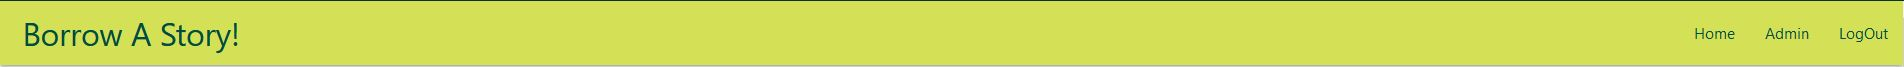
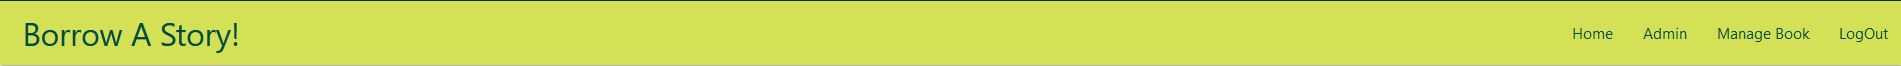
Add passage for mange book page and edit page in Readme file

diff --git a/templates/editbook.html b/templates/editbook.html
@@ -28,4 +28,6 @@
 </div>
 </div>
 
+{% endif %}
+
 {% endblock %}

diff --git a/README.md b/README.md
@@ -27,6 +27,8 @@
         1. [Book Borrow/Return Page](#borrow)
         1. [Book Issued/Returned Confirmation Page](#confirmation)
         1. [Profile](#profile)
+        1. [Manage Book (For Admins)](#managebook)
+        1. [Edit Book (For Admins)](#editbook)
         1. [Sign-up/Log-in/Log-out](#sign-in)
     - [Features to Implement](#future)
  - [Testing](#testing)
@@ -185,6 +187,27 @@ Borrowed Books Section:<br>
 Bookmarks:<br>
 
 ![Bookmarks](./media/images/bookmarks.JPG)
+<br><br>
+
+
+### Manage Book (For Admins) <a name="managebook"></a>
+The Manage Book is available only for users with "admin" privilege. Here, an admin can run various functions for managing the inventory, like add new author, add a new book and edit/delete a book from the library.
+
+![Add Author](./media/images/add-author.JPG)
+<br><br>
+
+![Add New Book](./media/images/add-another-book.JPG)
+<br><br>
+
+![Edit/Delete Book](./media/images/edit-delete-book.JPG)
+<br><br>
+
+
+### Edit Book (For Admins) <a name="editbook"></a>
+This page is also available only for user with "admin" privilege. On this page, an admin can edit/correct any information regarding a particular book.
+
+![Edit Book](./media/images/edit-book.JPG)
+<br><br>
 
 
 ### Sign-up/ Log-in/ Log-out <a name="sign-in"></a>
@@ -270,6 +293,9 @@ In the future, given more time to work on the website, I would like to implement
     - The website wasn't launching after deploying it through Heroku app.
     - The requirement.txt file wasn't updated properly when ``crispy-forms-materialize`` was installed.
     - The issue was solved by running ``pip3 freeze --local > requirements.txt`` command in the terminal.
+
+12. The image was not being uploaded to Cloudinary when add a new book from Manage Book page by admin.
+    - The issue was resolved by adding ``enctype="multipart/form-data"`` to FORM element in template and ``request.files`` in VIEWS while fetching the form data. 
 
 
 ## Validator Testings
